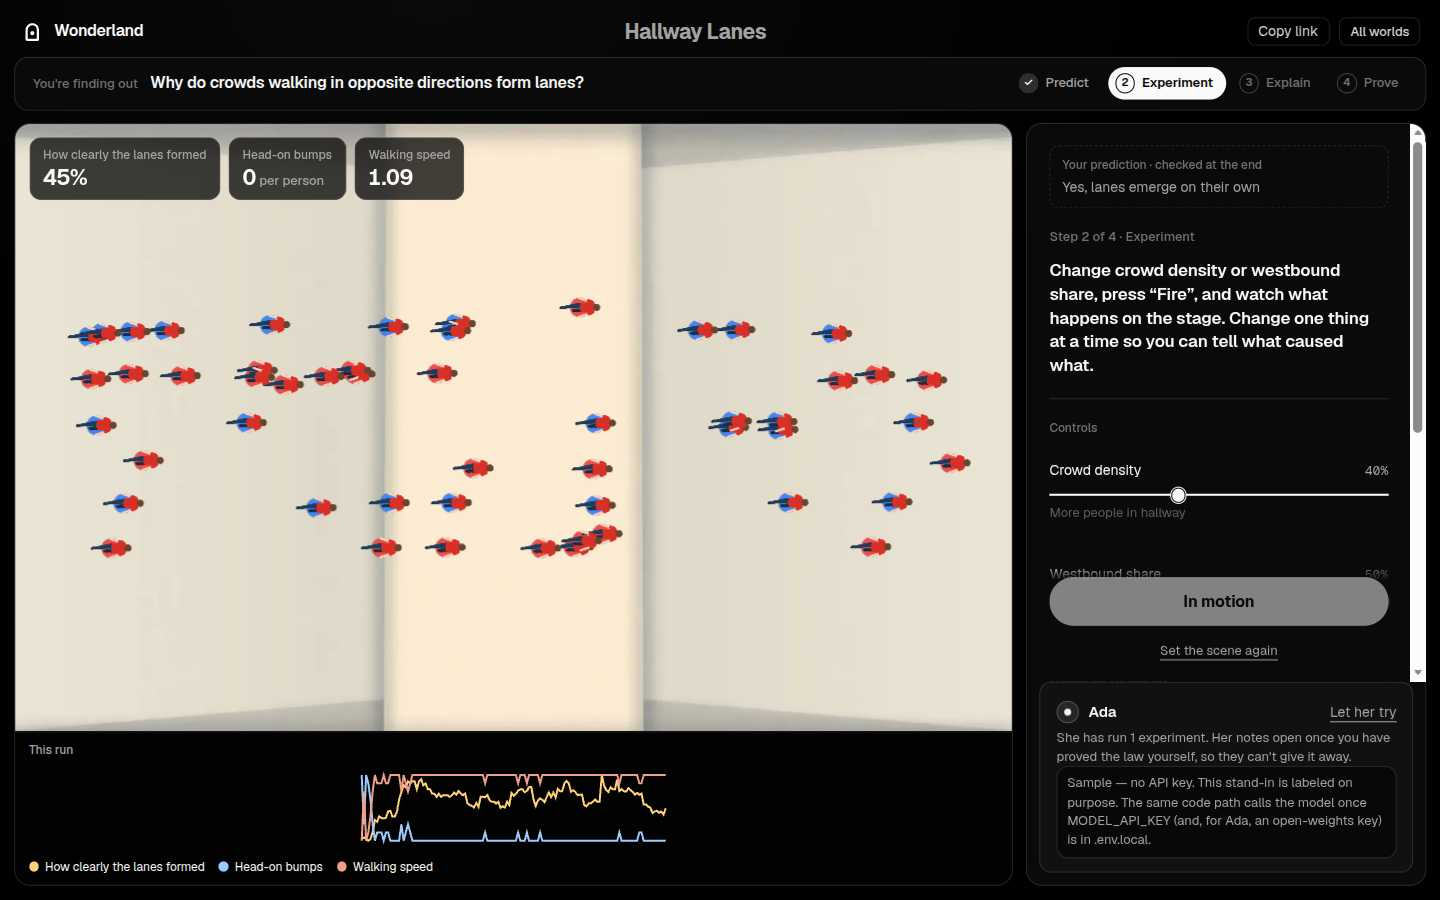
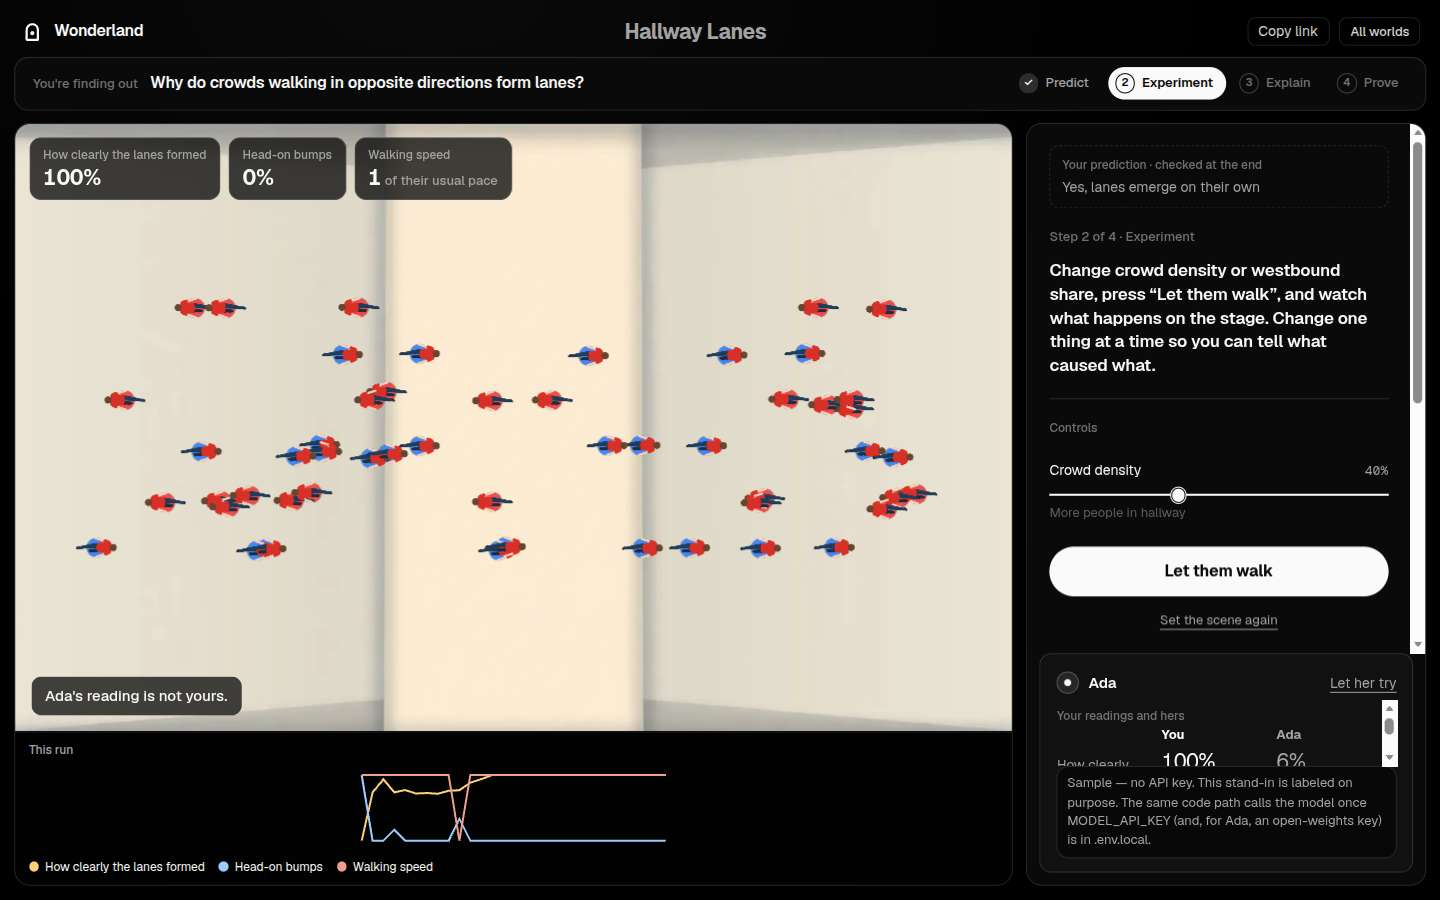
Record the hallway's real walking pace in the night log.

diff --git a/docs/progress/night-1.md b/docs/progress/night-1.md
@@ -99,6 +99,8 @@ The hallway used a cannon-length run. Commit `5315063`. On some seeds the two di
 
 The meadow's "flashing in step" was a ramp laid over the real order, so the chart kept climbing after the swarm had locked. The card also repeated the sliders and a second percent. Commit `3ca0dfa`. The reading is now the swarm's own order, and a blink counts only when a firefly wraps. On the production server one gesture finishes in about seven seconds at 93% flashing in step and 0.16 flashes each second, with 100 fireflies. The chart rises, then holds. A phone shows the same three cards, at 87% on that run. All five science checks still pass. `pnpm check` is 231 tests.
 
+Walking speed on the hallway was the crowd's wished-for pace times a collision formula, so the card stayed near 1.09. Commit `3266c0a`. It is now the share of their usual pace they manage on that step. The two directions face opposite ways, and the button says "Let them walk". On the production server one gesture finishes in about ten seconds at 100% lanes, 0% head-on bumps, and 1 of their usual pace. With sidestepping turned off it ends at 3% lanes, 17% head-on bumps, and 0.83 of their usual pace. The ring road button says "Let them drive". All seven hallway checks pass. `pnpm check` is 232 tests.
+
 ## Still blocked on a key
 
 The playtester batch of 12 worlds, capped at $0.60 of Meta, was not run. There is no `MODEL_API_KEY` and no ledger in this checkout. A live `pnpm eval` would stop if the Baseten total reached $4.30. Painting new worlds stays capped at $1.00 of Meta, and was not started.
